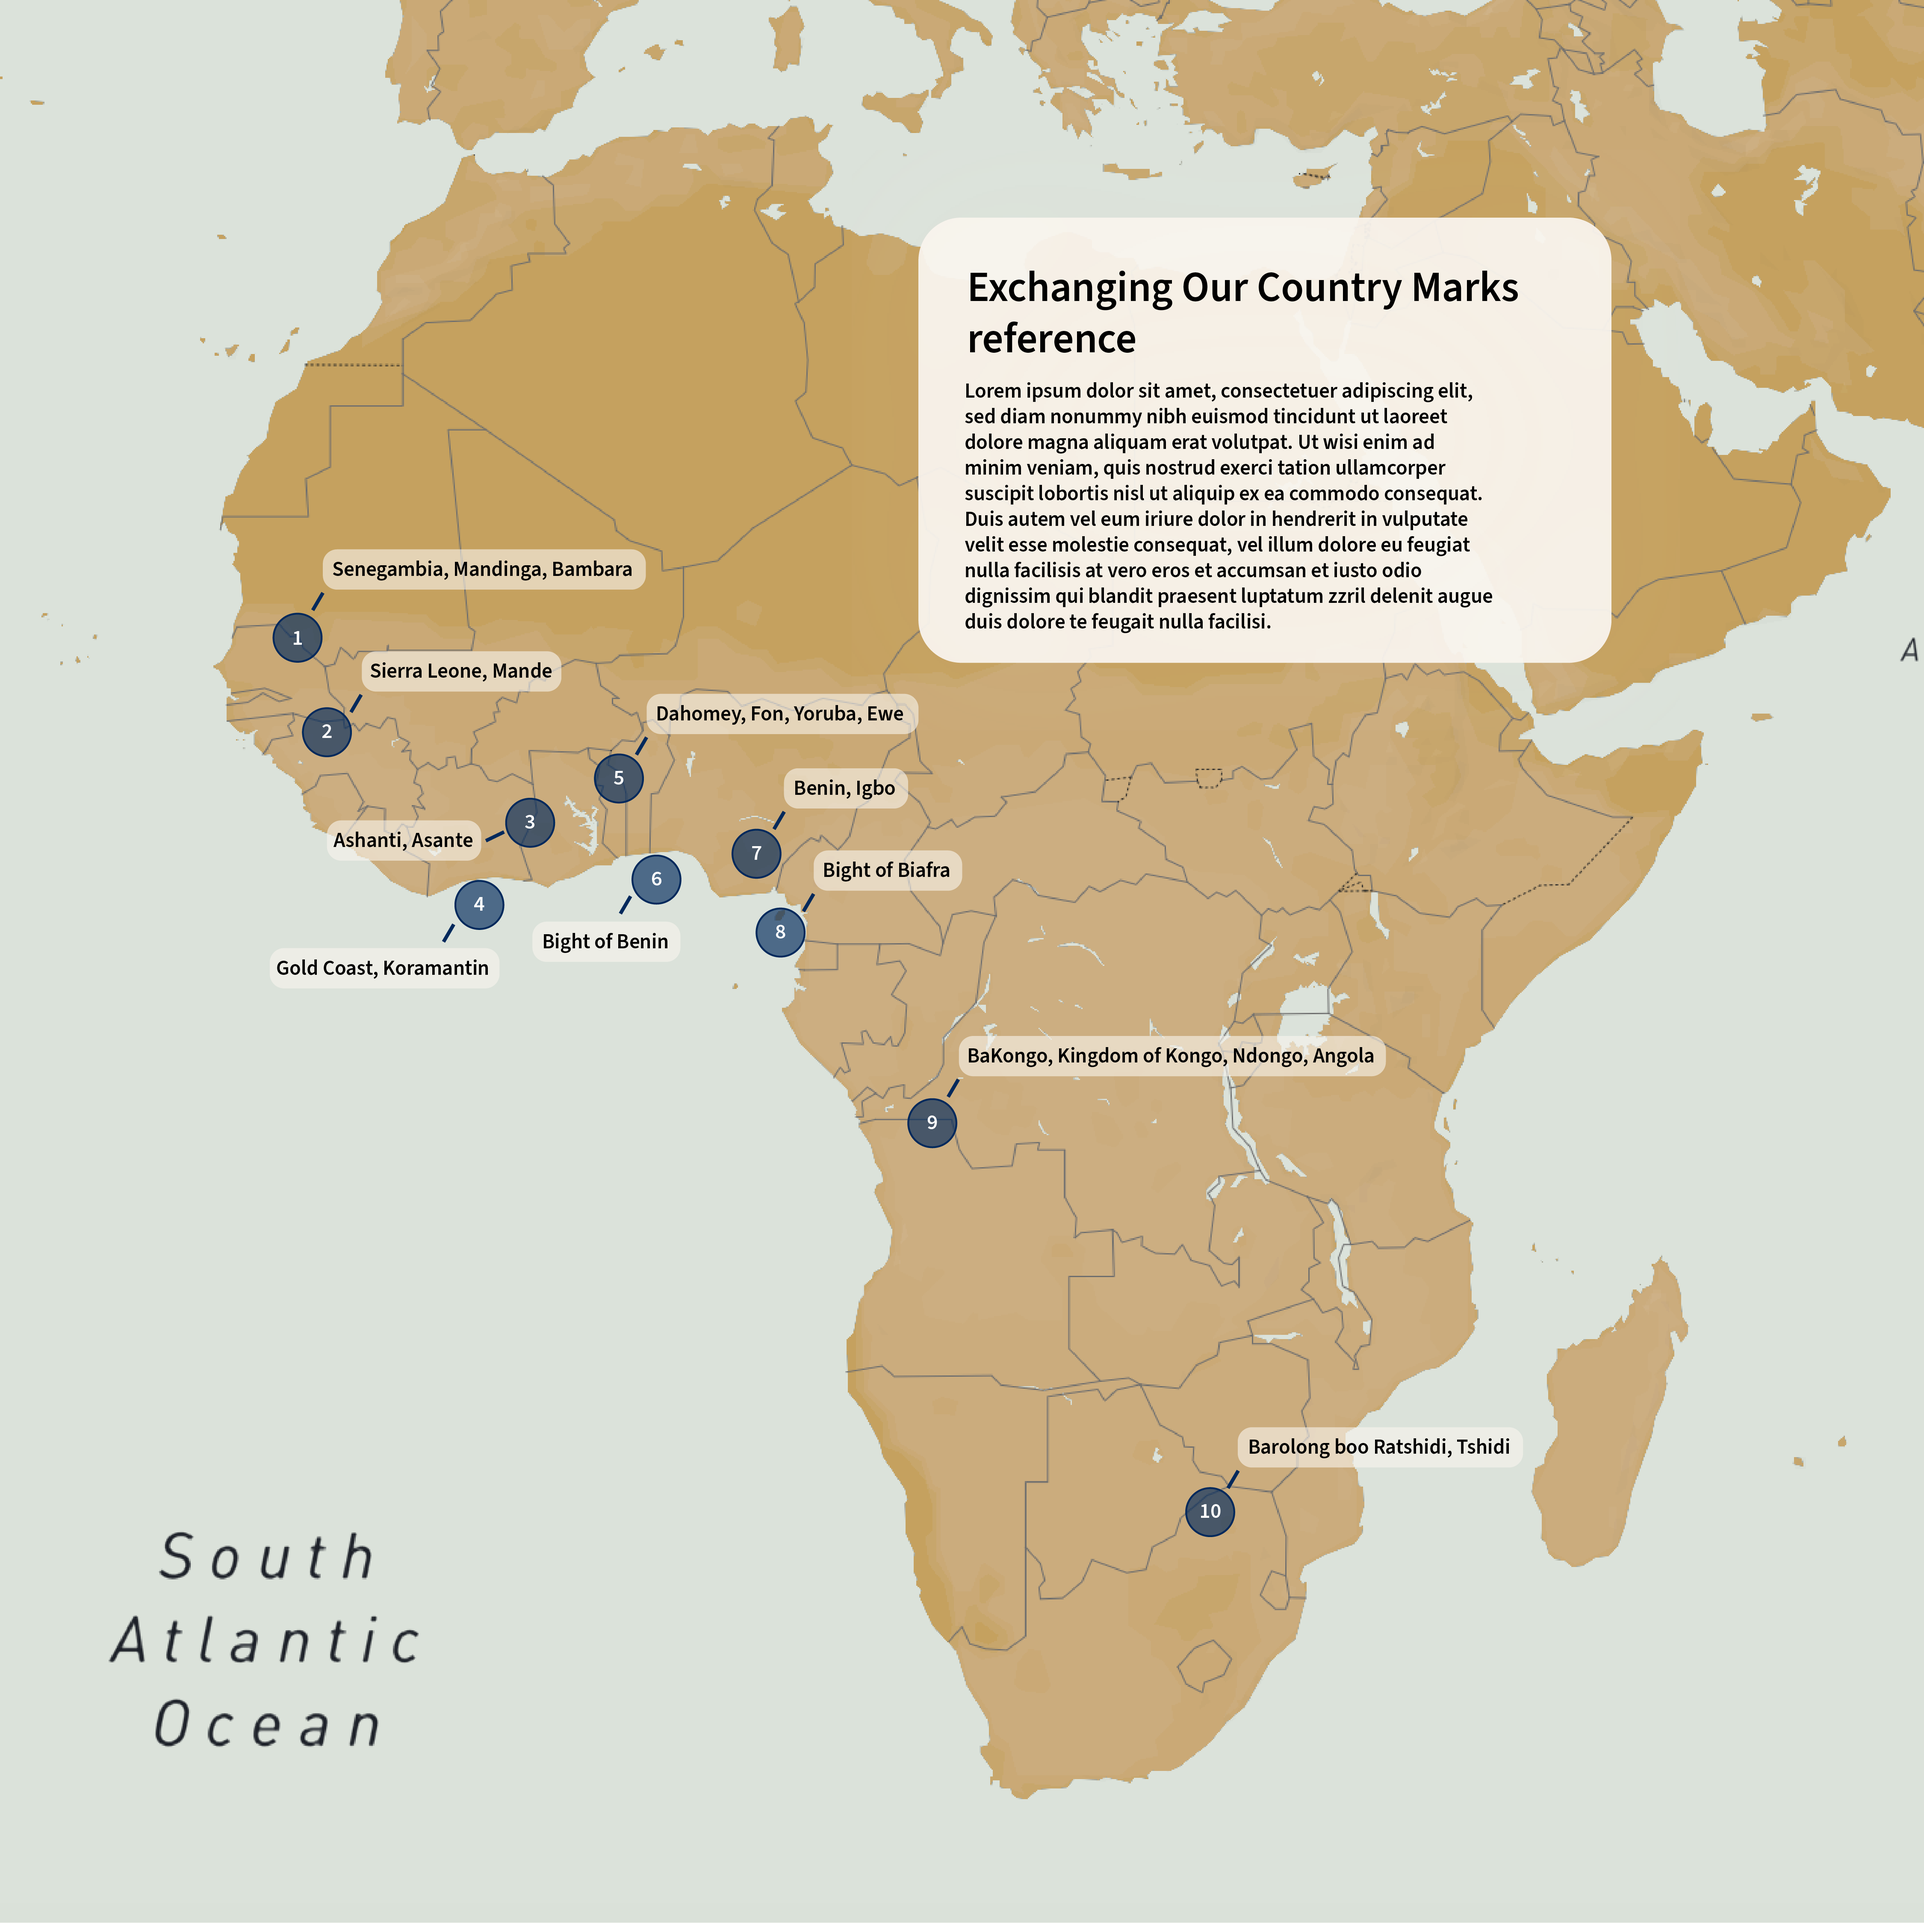
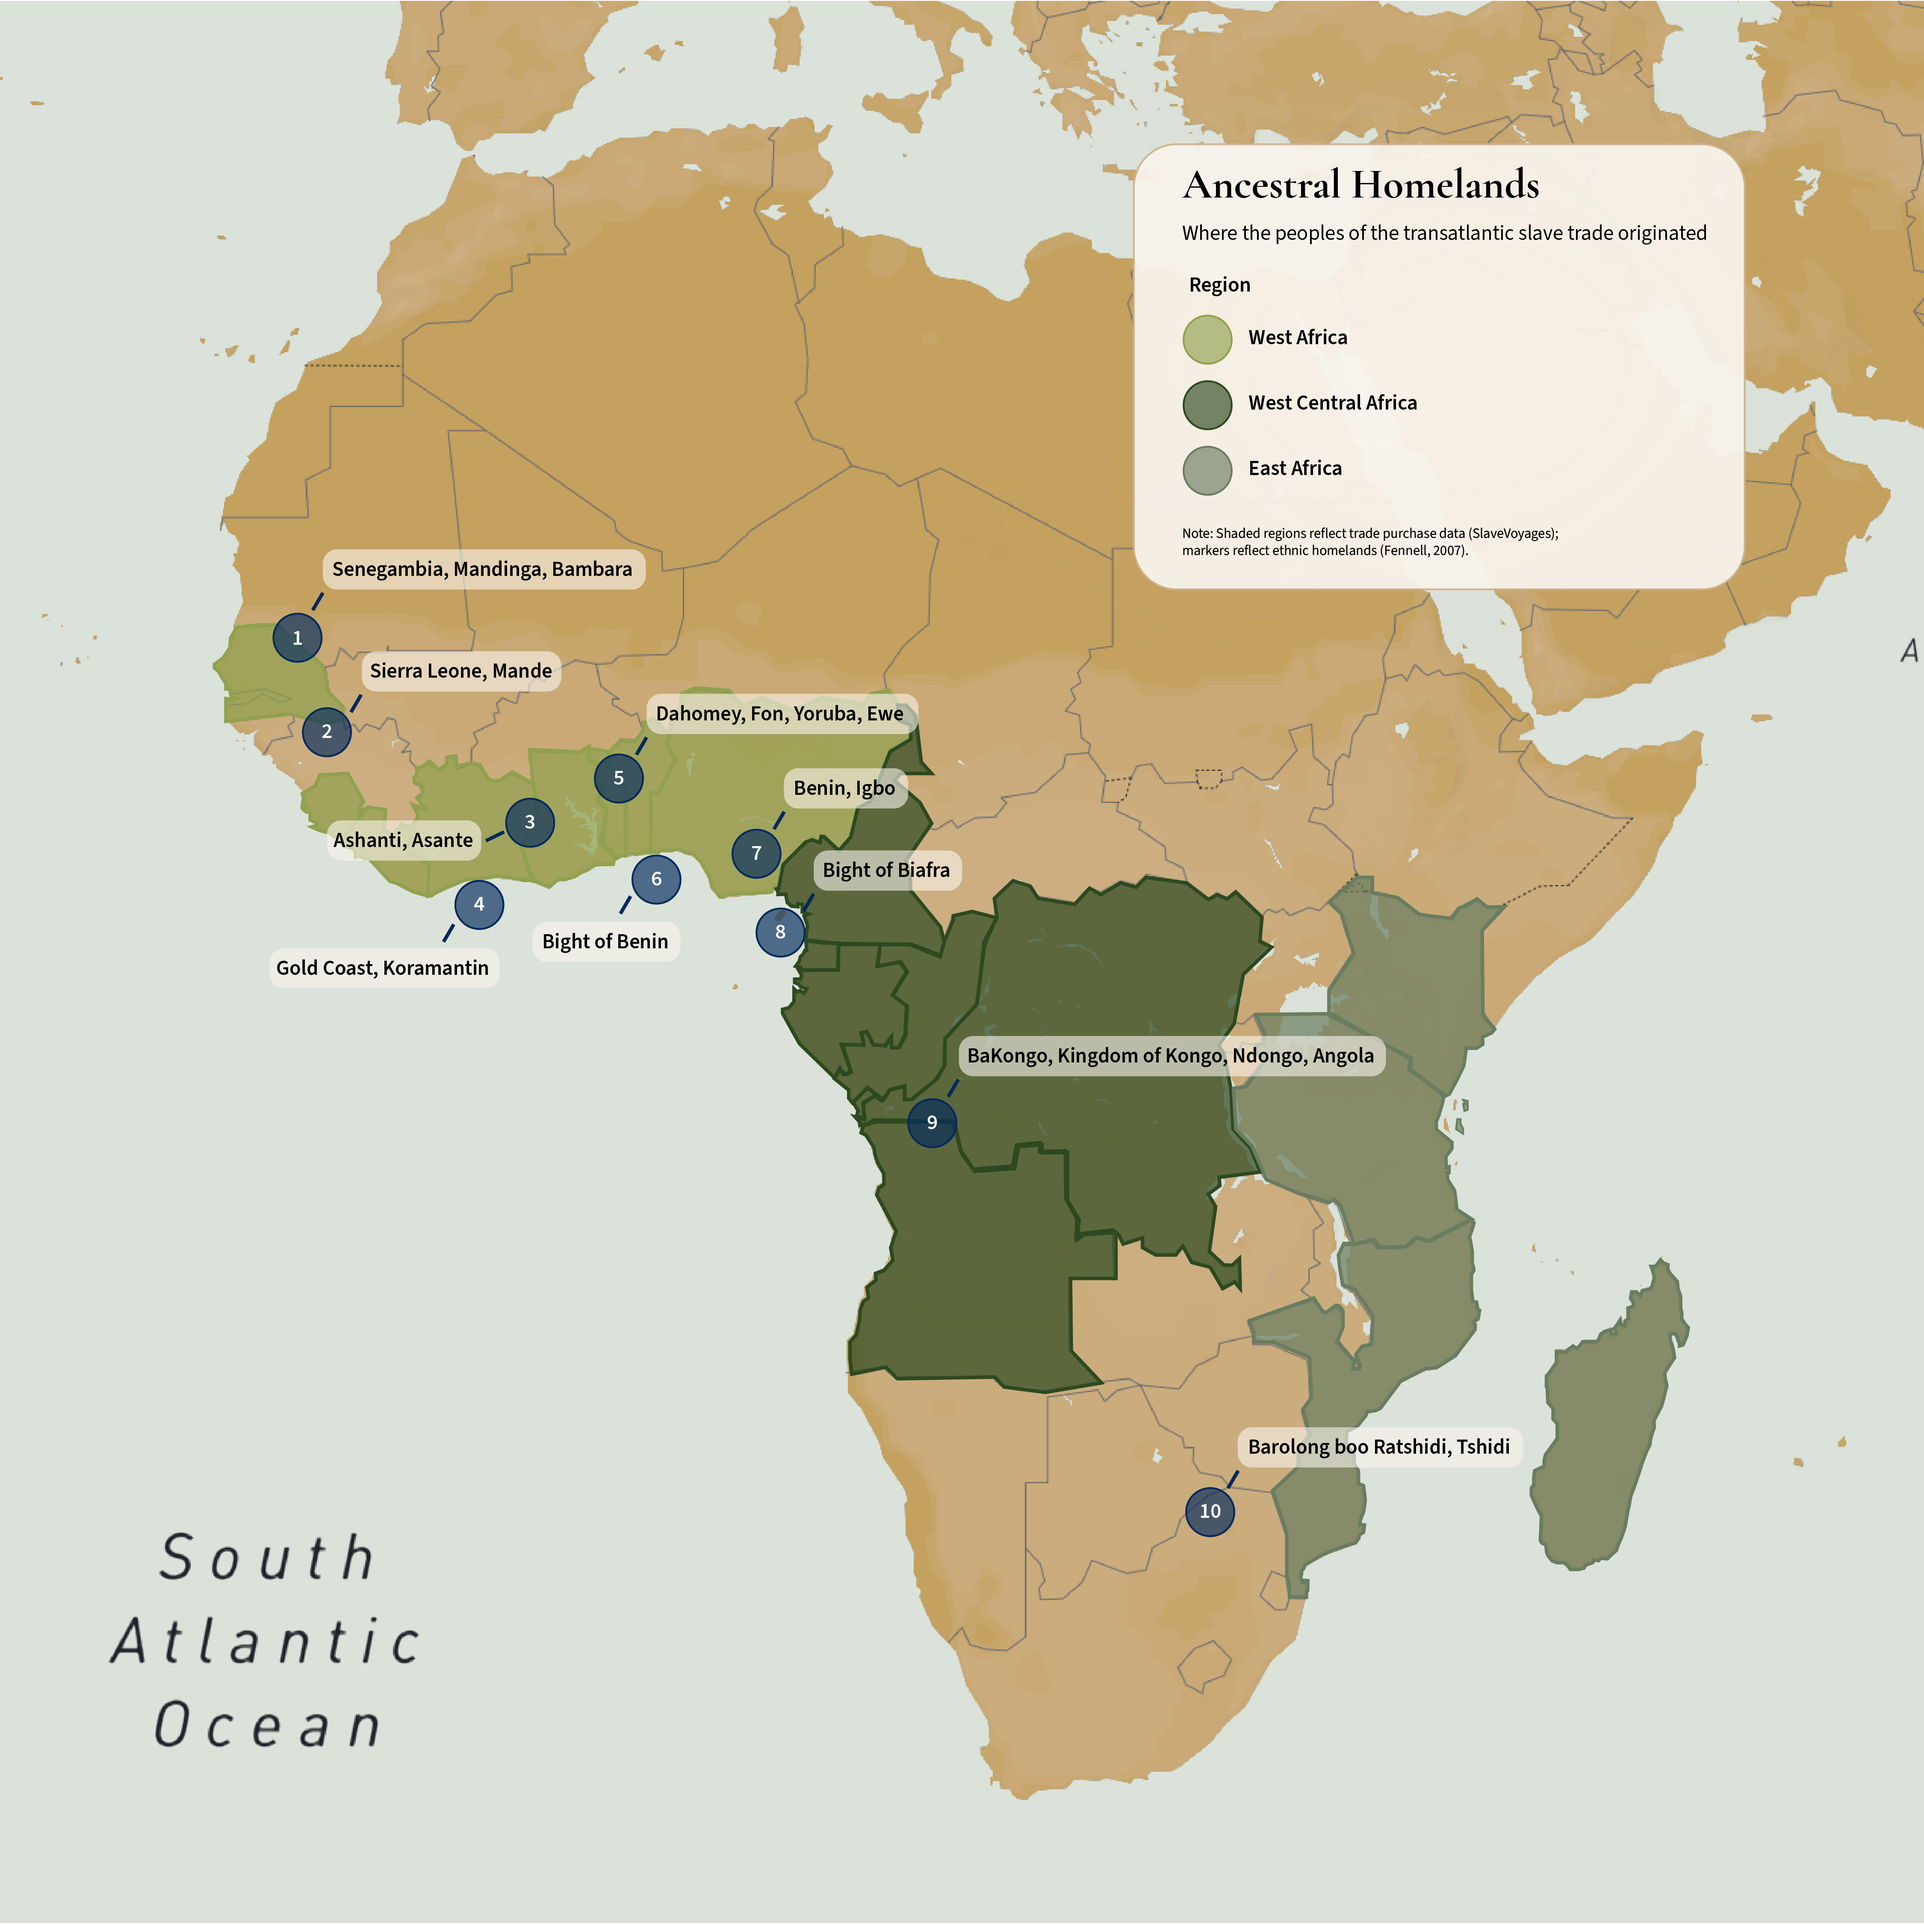
update

diff --git a/hoodoo_closeread.html b/hoodoo_closeread.html
@@ -277,19 +277,19 @@ h3 {
 <p>The people forced across the Atlantic came from dozens of distinct ethnic groups — each with its own language, cosmology, and way of understanding the sacred.</p>
 </section>
 </div>
-<div class="trigger new-trigger" data-focus-on="cr-africa_ethnicities-img" data-scale-by="3" data-pan-to="30%,20%">
+<div class="trigger new-trigger" data-scale-by="3" data-focus-on="cr-africa_ethnicities-img" data-pan-to="30%,20%">
 <section id="yoruba" class="level2 map-step narrative">
 <h2 class="anchored" data-anchor-id="yoruba">Yoruba</h2>
 <p>Among West Africa’s many peoples, the Yoruba (5) stand out as one of the most significant influences on what would become Hoodoo — their systems of divination, herbal knowledge, and reverence for spirit carried directly into Black American spiritual practice.</p>
 </section>
 </div>
-<div class="trigger new-trigger" data-focus-on="cr-africa_ethnicities-img" data-scale-by="3" data-pan-to="-25%,-25%">
+<div class="trigger new-trigger" data-scale-by="3" data-focus-on="cr-africa_ethnicities-img" data-pan-to="-25%,-25%">
 <section id="kongo-angola" class="level2 map-step narrative">
 <h2 class="anchored" data-anchor-id="kongo-angola">Kongo-Angola</h2>
 <p>The Kongo-Angolans (9) of West Central Africa left an equally deep mark. The Kongo cosmogram — a cross marking the boundary between the living and the spirit world — echoes throughout Hoodoo ritual to this day.</p>
 </section>
 </div>
-<div class="trigger new-trigger" data-focus-on="cr-africa_ethnicities-img" data-scale-by="3" data-pan-to="65%,45%">
+<div class="trigger new-trigger" data-scale-by="3" data-focus-on="cr-africa_ethnicities-img" data-pan-to="65%,45%">
 <section id="bambara" class="level2 map-step narrative">
 <h2 class="anchored" data-anchor-id="bambara">Bambara</h2>
 <p>The Bambara of Senegambia (1) held a spiritual worldview built on intimacy between the earth, the spirit world, and human beings. They were especially noted for their use of amulets and charms — objects of intercession and divination that carried protective and revealing power.</p>
@@ -305,12 +305,7 @@ h3 {
 <div class="sticky-col">
 <div class="sticky-col-stack">
 <div id="cr-africa_ethnicities-img" class="sticky">
-<div class="quarto-figure quarto-figure-center">
-<figure class="figure">
-<p><img src="images/africa_ethnicities.png" class="img-fluid figure-img"></p>
-<figcaption>Regional groupings adapted from Michael A. Gomez’s Exchanging Our Country Marks (1998), Figure 1.2.</figcaption>
-</figure>
-</div>
+<p><img src="images/africa_ethnicities.png" class="img-fluid" alt="Regional groupings adapted from Christopher C. Fennell’s Crossroads and Cosmologies: Diasporas and Ethnogenesis in the New World (2007), Figure 1.2."> <em>Note: Shaded regions reflect trade purchase data (SlaveVoyages); markers reflect ethnic homelands (Gomez, 1998).</em></p>
 </div>
 </div>
 </div>
